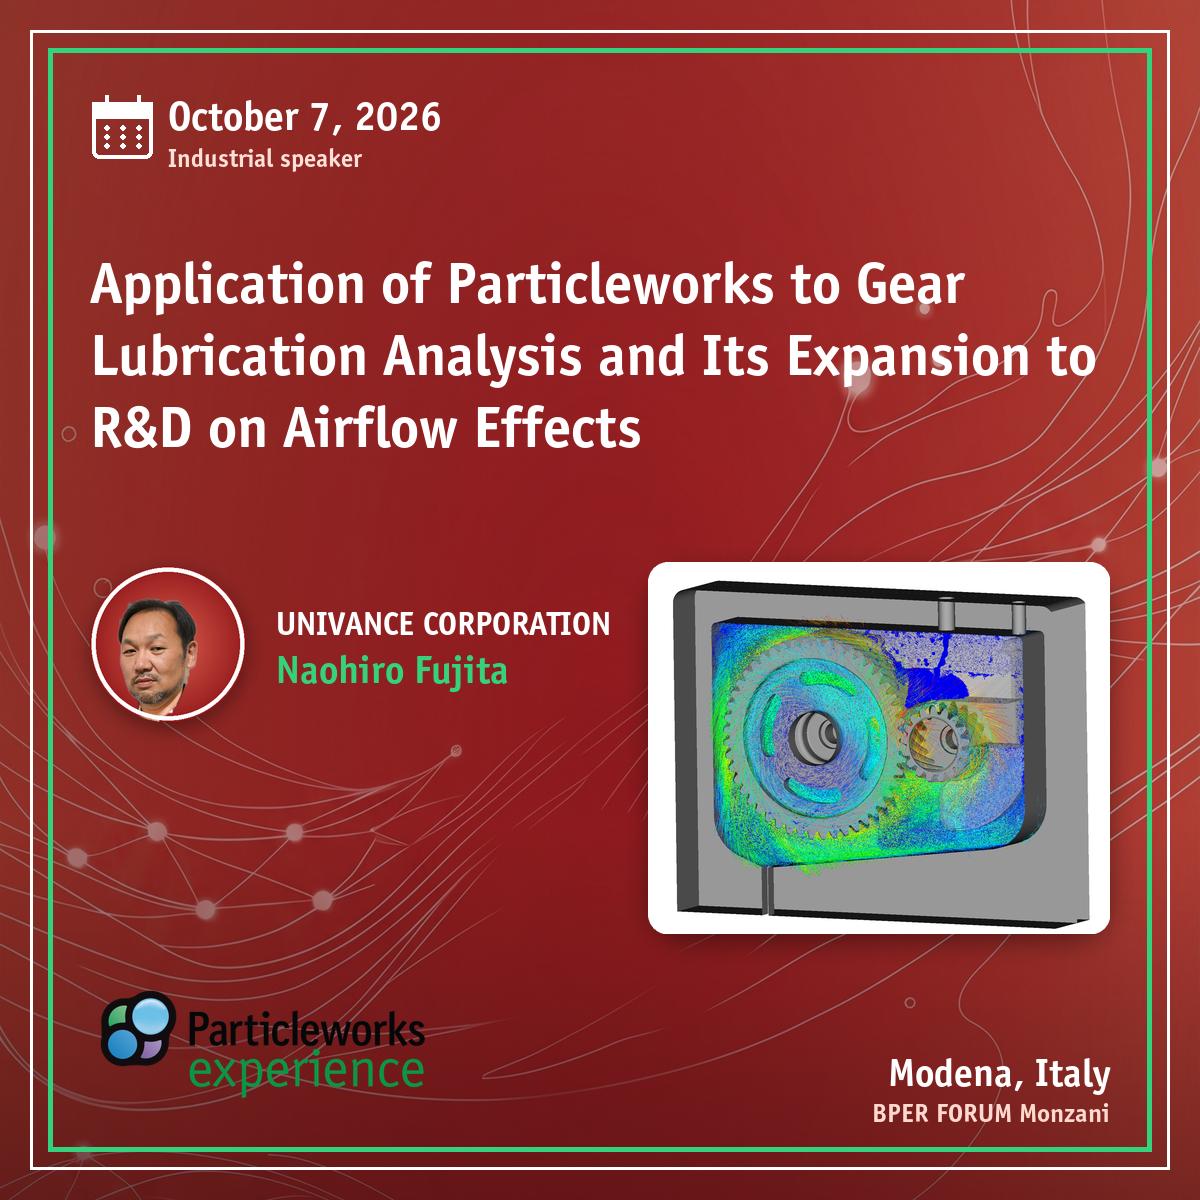
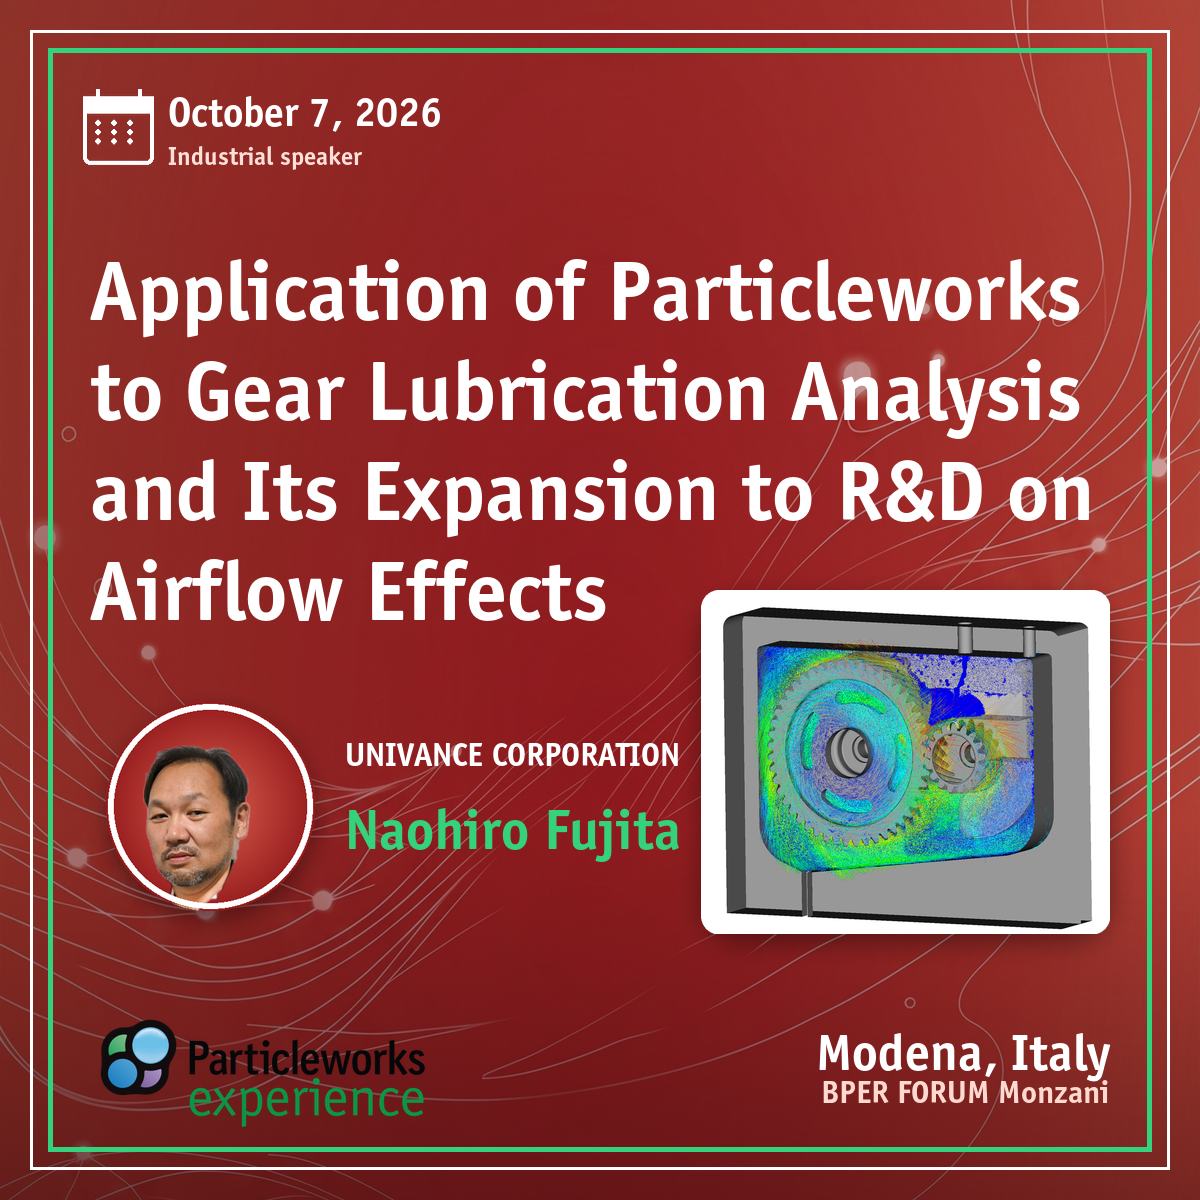
experience/2026: apply user-edited card template to all cards
Adopt the styling from the edited example slides (keynote, MTU, SKF): title
54pt full-width on top, 209px presenter circle beside 36pt company + name,
sim panel at (701,590), larger calendar and 32/20pt venue. Long titles
auto-shrink to fit above the avatar row. Regenerate all 10 PNGs and the
editable square PPTX from one clean 10-slide template.

diff --git a/experience/cards/cards_build.py b/experience/cards/cards_build.py
@@ -15,8 +15,20 @@ SPK  = os.path.join(ROOT, "speakers")
 S=1200; M=90
 WHITE=(255,255,255); GREEN=(52,210,124); SUB=(255,224,216); SUBLOC=(255,217,207)
 C_IN=(220,96,78); C_OUT=(150,28,30)          # reddish avatar gradient
-TITLE_Y=246; CONTENT_TOP=566
-def f(sz): return ImageFont.truetype(FONT, sz)
+def f(sz): return ImageFont.truetype(FONT, int(sz))
+
+# ---- layout template, taken from the user-edited example slides 1-3 (px @120dpi) ----
+P2X=1.6667                                    # pt -> px at 120dpi  (px = pt*120/72)
+CAL_POS=(81,86); CAL_W=78; CAL_H=84
+DATE_POS=(168,86); DATE_PX=42                 # 25.2pt
+CAT_POS=(168,140); CAT_PX=26                  # 15.6pt
+TITLE_X,TITLE_Y,TITLE_W=90,238,1020
+TITLE_MAXPX,TITLE_MINPX,TITLE_MAXH=90,58,468  # 54pt, shrink long titles to fit
+AV_X,AV_Y,AV_D=106,702,209
+COMP_X,COMP_Y=345,734; PRES_X,PRES_Y=345,794; CP_PX=60   # 36pt company + presenter
+LOGO_X,LOGO_Y,LOGO_W=90,1009,348
+VEN_RIGHT=1110; VEN1_Y,VEN1_PX=1020,53; VEN2_Y,VEN2_PX=1072,33   # 32pt / 20pt
+SIM_X,SIM_Y,SIM_W,SIM_H=701,590,409,344
 
 # ---------- asset prep ----------
 def seg_cutout(path,out):
@@ -77,7 +89,7 @@ def square_bg(out):
     for y in range(S): d2.line([(0,y),(S,y)],fill=int(max(0,(y-820)/(S-820))*110) if y>820 else 0)
     Image.composite(Image.new("RGB",(S,S),(40,6,8)),im,sc2).save(out)
 
-def cal_icon(out,s=60,col=WHITE):
+def cal_icon(out,s=70,col=WHITE):
     im=Image.new("RGBA",(s+8,s+12),(0,0,0,0)); d=ImageDraw.Draw(im)
     d.rounded_rectangle([2,10,s+2,s+6],radius=7,outline=col,width=4); d.rectangle([2,10,s+2,26],fill=col)
     d.line([16,3,16,16],fill=col,width=4); d.line([s-12,3,s-12,16],fill=col,width=4)
@@ -103,40 +115,40 @@ def wrap(text,ft,max_w):
     if cur: out.append(cur)
     return out
 
+# ---------- shared text fitting ----------
+def fit_title(text):
+    px=TITLE_MAXPX
+    while px>=TITLE_MINPX:
+        ft=f(px); lines=wrap(text,ft,TITLE_W); lh=int(px*1.16)
+        if len(lines)*lh<=TITLE_MAXH: return ft,lines,lh
+        px-=3
+    ft=f(TITLE_MINPX); return ft,wrap(text,ft,TITLE_W),int(TITLE_MINPX*1.16)
+def comp_w(sim): return (SIM_X-COMP_X-20) if sim else (VEN_RIGHT-COMP_X)
+
 # ---------- flat PNG renderer ----------
 def render_png(c):
     im=Image.open(os.path.join(PROC,"bg_square.png")).convert("RGBA"); d=ImageDraw.Draw(im)
     d.rectangle([30,30,S-31,S-31],outline=WHITE,width=3); d.rectangle([48,48,S-49,S-49],outline=GREEN,width=5)
-    cal=Image.open(os.path.join(PROC,"cal.png")); im.alpha_composite(cal,(M,92)); d=ImageDraw.Draw(im)
-    d.text((M+78,90),c["date"],font=f(42),fill=WHITE); d.text((M+78,142),c["cat"],font=f(26),fill=SUB)
-    sim=c.get("sim")
-    # title full width on top
-    tw=S-2*M; tf=f(60); lines=wrap(c["title"],tf,tw)
-    if len(lines)>3: tf=f(50); lines=wrap(c["title"],tf,tw)
-    if len(lines)>4: tf=f(42); lines=wrap(c["title"],tf,tw)
-    y=TITLE_Y
-    for ln in lines: d.text((M,y),ln,font=tf,fill=WHITE); y+=tf.size+12
-    # sim panel on the side
-    if sim:
-        sp=Image.open(os.path.join(PROC,sim)).convert("RGBA"); pw,ph=462,372
-        sp=sp.resize((pw,ph),Image.LANCZOS)
-        sh=Image.new("RGBA",(S,S),(0,0,0,0)); ImageDraw.Draw(sh).rounded_rectangle([648,562+8,648+pw,562+ph+8],radius=40,fill=(0,0,0,95))
-        im.alpha_composite(sh.filter(ImageFilter.GaussianBlur(12))); im.alpha_composite(sp,(648,562))
-    # avatar + company/presenter
-    av=Image.open(os.path.join(PROC,c["avatar"])).convert("RGBA"); ad=156
-    av=av.resize((ad,ad),Image.LANCZOS)
-    sh=Image.new("RGBA",(S,S),(0,0,0,0)); ImageDraw.Draw(sh).ellipse([M,CONTENT_TOP+6,M+ad,CONTENT_TOP+ad+6],fill=(0,0,0,90))
-    im.alpha_composite(sh.filter(ImageFilter.GaussianBlur(9))); im.alpha_composite(av,(M,CONTENT_TOP))
+    cal=Image.open(os.path.join(PROC,"cal.png")).resize((CAL_W,CAL_H),Image.LANCZOS); im.alpha_composite(cal,CAL_POS)
     d=ImageDraw.Draw(im)
-    txtx=M+ad+30; txtw=(620-txtx) if sim else (S-M-txtx)
-    cf=fit(c["company"],txtw,44); pf=fit(c["speakers"],txtw,40)
-    blk=cf.size+8+pf.size; ty=CONTENT_TOP+ad//2-blk//2
-    d.text((txtx,ty),c["company"],font=cf,fill=WHITE); d.text((txtx,ty+cf.size+8),c["speakers"],font=pf,fill=GREEN)
-    # original logo (transparent bg), bottom-left
-    lg=Image.open(LOGO).convert("RGBA"); lw=348; lg=lg.resize((lw,int(lg.size[1]*lw/lg.size[0])),Image.LANCZOS)
-    im.alpha_composite(lg,(M,S-96-lg.size[1]))
-    d.text((S-M-f(40).getlength(L1),S-152),L1,font=f(40),fill=WHITE)
-    d.text((S-M-f(27).getlength(L2),S-104),L2,font=f(27),fill=SUBLOC)
+    d.text(DATE_POS,c["date"],font=f(DATE_PX),fill=WHITE); d.text(CAT_POS,c["cat"],font=f(CAT_PX),fill=SUB)
+    sim=c.get("sim")
+    tf,lines,lh=fit_title(c["title"]); y=TITLE_Y
+    for ln in lines: d.text((TITLE_X,y),ln,font=tf,fill=WHITE); y+=lh
+    if sim:
+        sp=Image.open(os.path.join(PROC,sim)).convert("RGBA").resize((SIM_W,SIM_H),Image.LANCZOS)
+        sh=Image.new("RGBA",(S,S),(0,0,0,0)); ImageDraw.Draw(sh).rounded_rectangle([SIM_X,SIM_Y+8,SIM_X+SIM_W,SIM_Y+SIM_H+8],radius=40,fill=(0,0,0,95))
+        im.alpha_composite(sh.filter(ImageFilter.GaussianBlur(12))); im.alpha_composite(sp,(SIM_X,SIM_Y))
+    av=Image.open(os.path.join(PROC,c["avatar"])).convert("RGBA").resize((AV_D,AV_D),Image.LANCZOS)
+    sh=Image.new("RGBA",(S,S),(0,0,0,0)); ImageDraw.Draw(sh).ellipse([AV_X,AV_Y+8,AV_X+AV_D,AV_Y+AV_D+8],fill=(0,0,0,90))
+    im.alpha_composite(sh.filter(ImageFilter.GaussianBlur(10))); im.alpha_composite(av,(AV_X,AV_Y))
+    d=ImageDraw.Draw(im); cw=comp_w(sim)
+    cf=fit(c["company"],cw,CP_PX); pf=fit(c["speakers"],cw,CP_PX)
+    d.text((COMP_X,COMP_Y),c["company"],font=cf,fill=WHITE); d.text((PRES_X,PRES_Y),c["speakers"],font=pf,fill=GREEN)
+    lg=Image.open(LOGO).convert("RGBA"); lg=lg.resize((LOGO_W,int(lg.size[1]*LOGO_W/lg.size[0])),Image.LANCZOS)
+    im.alpha_composite(lg,(LOGO_X,LOGO_Y))
+    d.text((VEN_RIGHT-f(VEN1_PX).getlength(L1),VEN1_Y),L1,font=f(VEN1_PX),fill=WHITE)
+    d.text((VEN_RIGHT-f(VEN2_PX).getlength(L2),VEN2_Y),L2,font=f(VEN2_PX),fill=SUBLOC)
     im.convert("RGB").save(os.path.join(OUT,c["file"]),"PNG"); print("png",c["file"])
 
 # ---------- editable PPTX ----------
@@ -164,20 +176,21 @@ def build_pptx(cards):
         for inset,col,wd in [(30,WHITE,2),(48,GREEN,3)]:
             fr=sl.shapes.add_shape(MSO_SHAPE.RECTANGLE,IN(inset),IN(inset),IN(S-2*inset),IN(S-2*inset))
             fr.fill.background(); fr.line.color.rgb=rgb(col); fr.line.width=Pt(wd); fr.shadow.inherit=False
-        sl.shapes.add_picture(os.path.join(PROC,"cal.png"),IN(M),IN(92),IN(56),IN(60))
-        tb(sl,M+78,86,520,52,c["date"],42,WHITE)
-        tb(sl,M+78,140,520,34,c["cat"],26,SUB)
+        sl.shapes.add_picture(os.path.join(PROC,"cal.png"),IN(CAL_POS[0]),IN(CAL_POS[1]),IN(CAL_W),IN(CAL_H))
+        tb(sl,DATE_POS[0],DATE_POS[1],520,52,c["date"],DATE_PX,WHITE)
+        tb(sl,CAT_POS[0],CAT_POS[1],520,34,c["cat"],CAT_PX,SUB)
         sim=c.get("sim")
-        tb(sl,M,TITLE_Y-8,S-2*M,300,c["title"],52 if not sim else 50,WHITE)
-        if sim: sl.shapes.add_picture(os.path.join(PROC,sim),IN(648),IN(562),IN(462),IN(372))
-        ad=156; sl.shapes.add_picture(os.path.join(PROC,c["avatar"]),IN(M),IN(CONTENT_TOP),IN(ad),IN(ad))
-        txtx=M+ad+30; txtw=(620-txtx) if sim else (S-M-txtx)
-        tb(sl,txtx,CONTENT_TOP+24,txtw,60,c["company"],42,WHITE)
-        tb(sl,txtx,CONTENT_TOP+84,txtw,54,c["speakers"],38,GREEN)
-        lg=Image.open(LOGO); lw=348; lh=int(lg.size[1]*lw/lg.size[0])
-        sl.shapes.add_picture(LOGO,IN(M),IN(S-96-lh),IN(lw),IN(lh))
-        tb(sl,S-M-560,S-156,560,52,L1,40,WHITE,align=PP_ALIGN.RIGHT)
-        tb(sl,S-M-560,S-104,560,36,L2,27,SUBLOC,align=PP_ALIGN.RIGHT)
+        tpx=fit_title(c["title"])[0].size
+        tb(sl,TITLE_X,TITLE_Y,TITLE_W,TITLE_MAXH,c["title"],tpx,WHITE)
+        if sim: sl.shapes.add_picture(os.path.join(PROC,sim),IN(SIM_X),IN(SIM_Y),IN(SIM_W),IN(SIM_H))
+        sl.shapes.add_picture(os.path.join(PROC,c["avatar"]),IN(AV_X),IN(AV_Y),IN(AV_D),IN(AV_D))
+        cw=comp_w(sim); cpx=fit(c["company"],cw,CP_PX).size; ppx=fit(c["speakers"],cw,CP_PX).size
+        tb(sl,COMP_X,COMP_Y,cw,73,c["company"],cpx,WHITE)
+        tb(sl,PRES_X,PRES_Y,cw,73,c["speakers"],ppx,GREEN)
+        lg=Image.open(LOGO); lh=int(lg.size[1]*LOGO_W/lg.size[0])
+        sl.shapes.add_picture(LOGO,IN(LOGO_X),IN(LOGO_Y),IN(LOGO_W),IN(lh))
+        tb(sl,VEN_RIGHT-560,VEN1_Y,560,65,L1,VEN1_PX,WHITE,align=PP_ALIGN.RIGHT)
+        tb(sl,VEN_RIGHT-560,VEN2_Y,560,40,L2,VEN2_PX,SUBLOC,align=PP_ALIGN.RIGHT)
     out=os.path.join(OUT,"particleworks-experience-2026-cards.pptx"); prs.save(out); print("pptx ->",out)
 
 # ---------- data ----------
